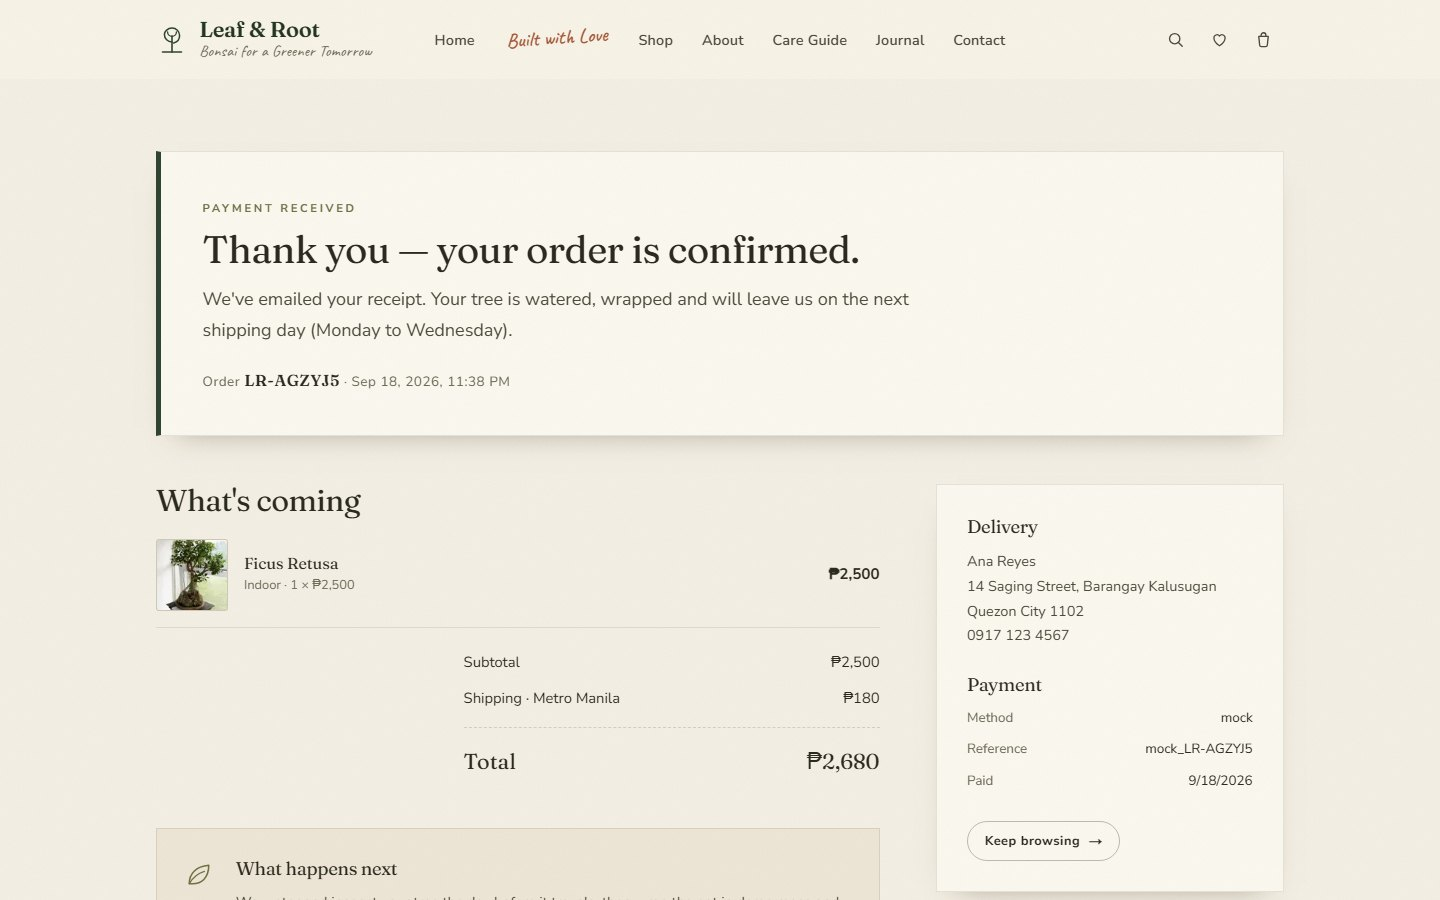
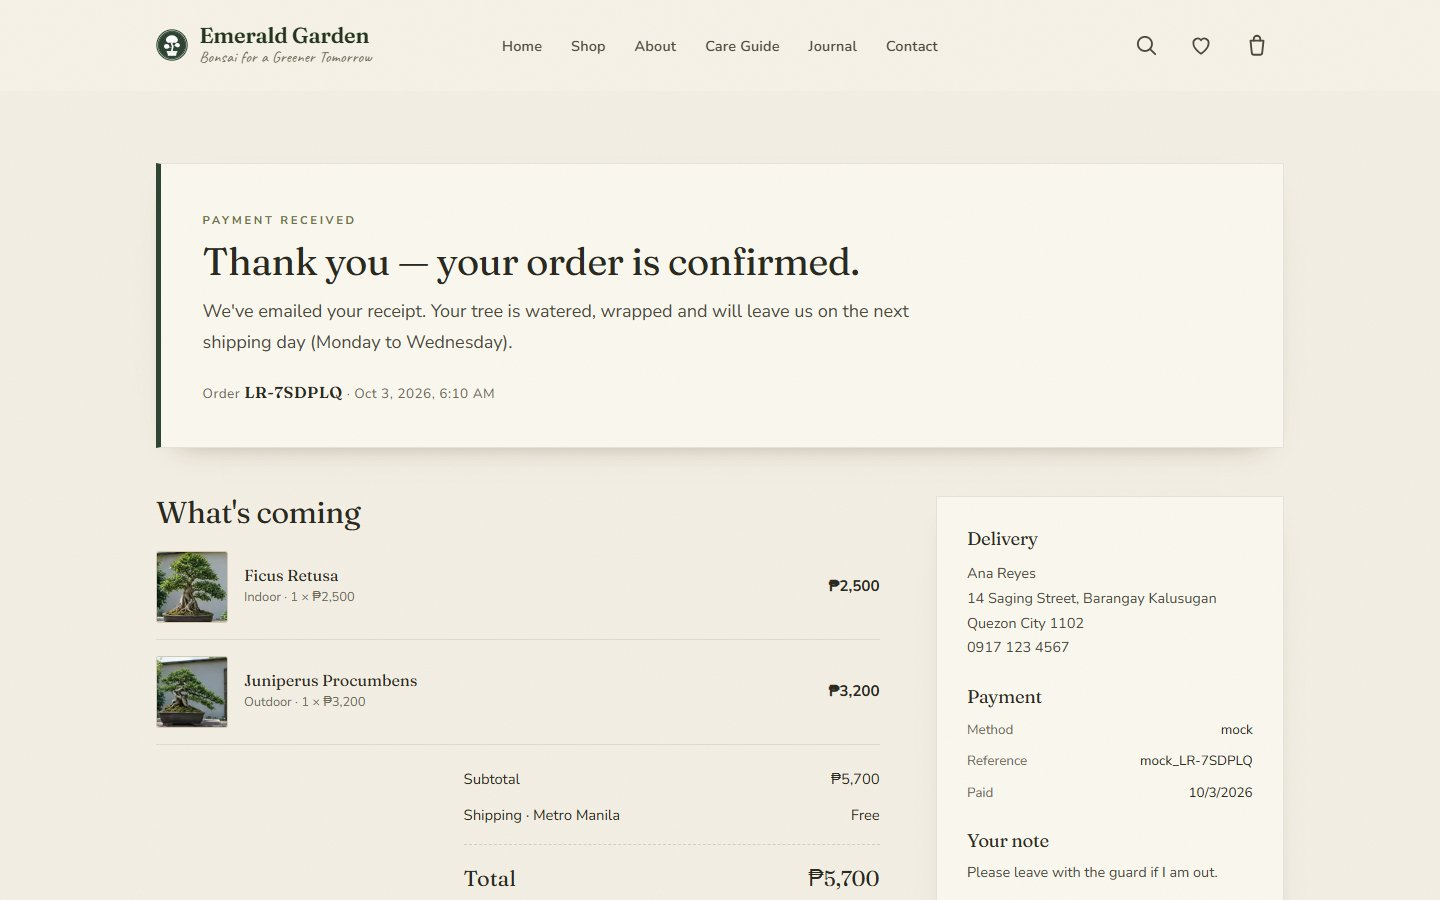
docs: refresh screenshots from current live site, add /api/csrf, CI trigger wording, e2e structure

diff --git a/README.md b/README.md
@@ -10,7 +10,8 @@ TypeScript, with no UI framework and no runtime dependencies beyond React.
 
 **[Live site](https://emerald-garden.vercel.app)** ·
 [CI](https://github.com/jewelcruzs0922-dev/emerald-garden/actions) runs typecheck,
-lint, formatting, unit tests and 57 end-to-end tests on every push.
+lint, formatting, unit tests and 57 end-to-end tests on every push to `main` and
+on pull requests.
 
 ![The home page](docs/home.jpg)
 
@@ -71,7 +72,7 @@ JSON on disk. See [Configuration](#configuration) to switch anything on.
 | Marketing | `/`, `/about`, `/care`, `/journal`, `/contact`                                                                       |
 | Catalogue | `/shop`, `/shop/[id]` (10 product pages)                                                                             |
 | Commerce  | `/checkout`, `/orders/[id]`                                                                                          |
-| API       | `/api/checkout`, `/api/checkout/return`, `/api/inventory`, `/api/contact`, `/api/newsletter`, `/api/webhooks/stripe` |
+| API       | `/api/checkout`, `/api/checkout/return`, `/api/csrf`, `/api/inventory`, `/api/contact`, `/api/newsletter`, `/api/webhooks/stripe` |
 | SEO       | `/sitemap.xml` (16 URLs), `/robots.txt`, `/og.png`                                                                   |
 
 **Working end to end:** browse → product page → basket → checkout → payment →
@@ -210,6 +211,14 @@ tests/
   pricing.test.ts       server-side re-pricing, shipping and cart issues
   inventory.test.ts     stock reservation, oversell protection, atomicity
   loader.mjs            resolves @/ and extensions for the node:test runner
+  register.mjs          installs loader.mjs (registerHooks, with register fallback)
+e2e/
+  commerce.spec.ts      checkout API guards and the full purchase flow
+  storefront.spec.ts    every route renders, home, catalogue, product pages
+  orders.spec.ts        receipts: server render, sessionStorage fallback
+  accessibility.spec.ts off-canvas focus management, colour contrast
+  seo.spec.ts           metadata, canonicals, sitemap, robots
+  global-setup.ts       production build + server for the suite
 ```
 
 `catalog.ts` and `product-details.ts` are separate on purpose: one holds the
